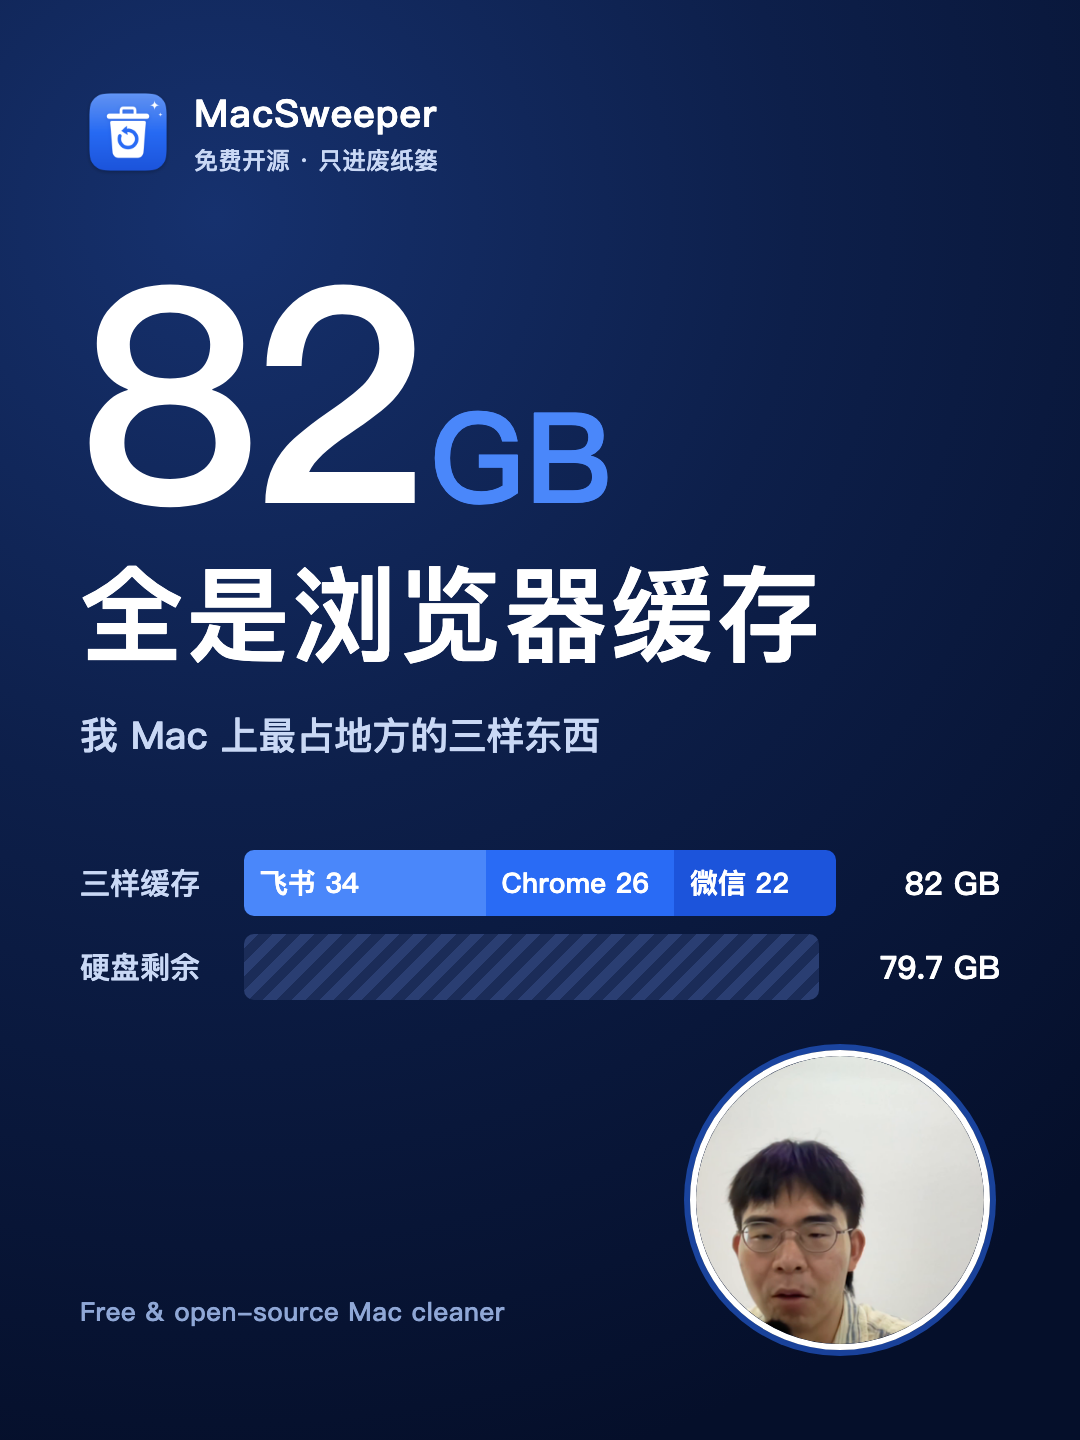
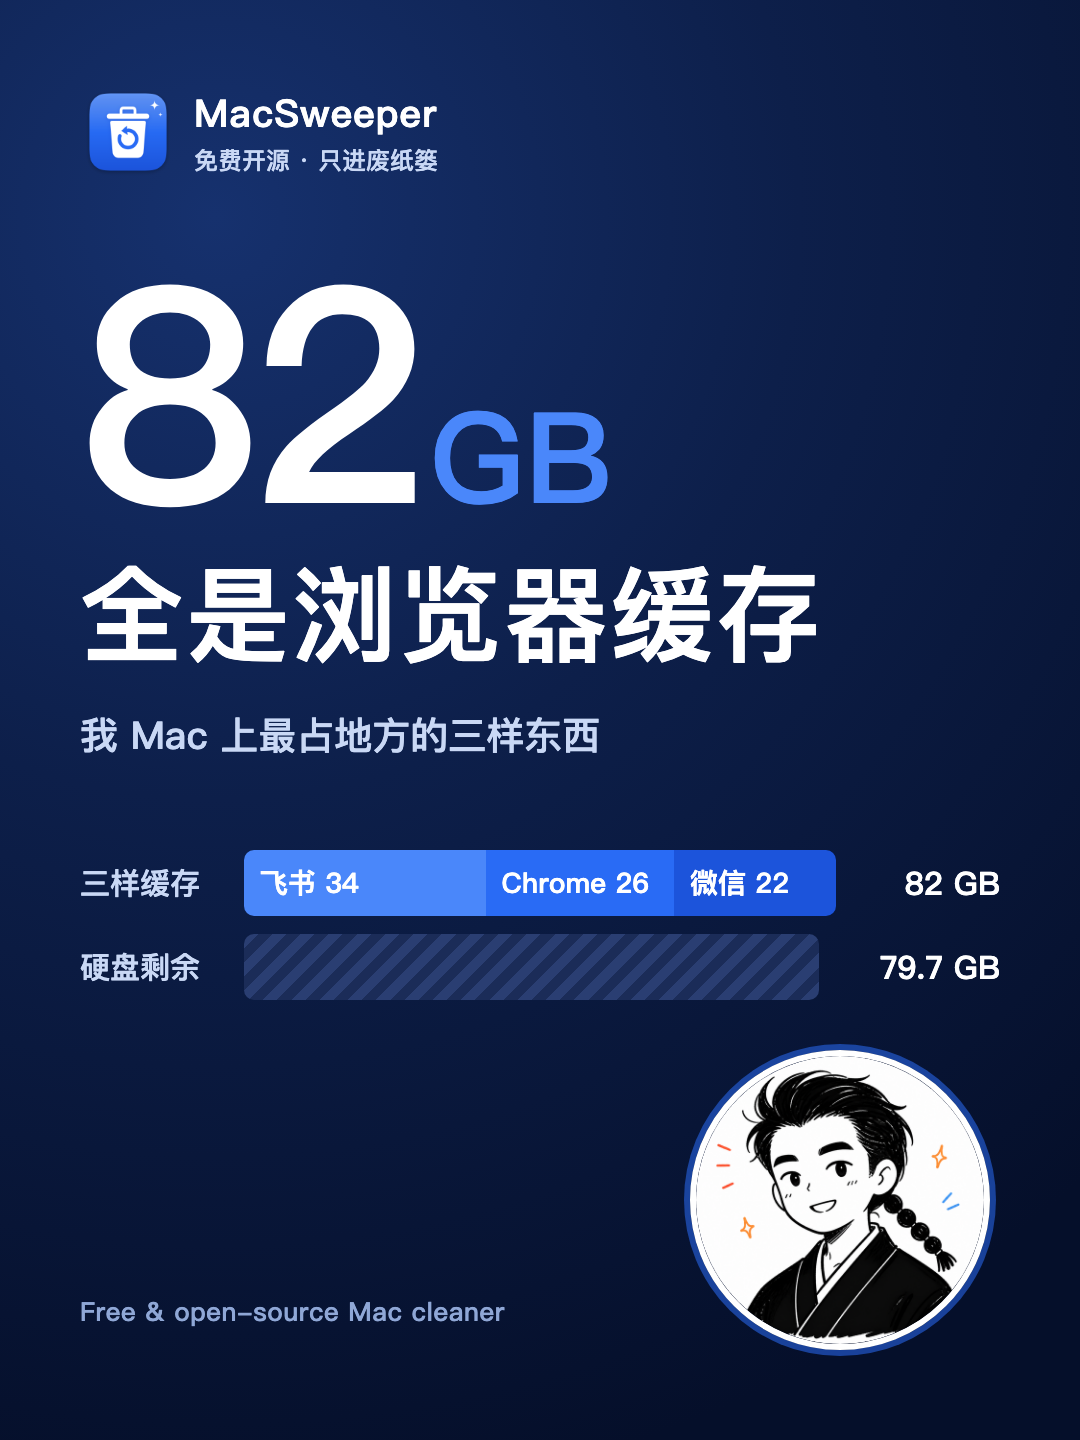
promo：封面头像换成 IP 头像

Changed region(s): [[0.6417, 0.7188, 0.9167, 0.9375]]

diff --git a/promo/视觉规范.md b/promo/视觉规范.md
@@ -9,8 +9,8 @@
 
 ## 视频封装
 
-- 横版封面 1280×720：深墨蓝底 + 一个大数字（如"82GB"）+ ≤ 8 字标题 + App 图标；可以放作者头像。
-- 竖版封面 1080×1440：同一套，数字更大。
+- 封面三个尺寸（一稿多发的三个封面位）：竖版 9:16 1080×1920、3:4 1080×1440、横版 16:9 1920×1080。深墨蓝底 + 一个大数字（如"82GB"）+ ≤ 8 字标题 + App 图标。
+- 封面上的作者头像用 **IP 头像**（黑白手绘、带辫子，原图 `~/Desktop/头像.png`，副本 `promo/封面/src/ip-avatar.png`），圆形白底 + 蓝色描边，不用视频截帧。
 - 字幕：中文在上、英文在下，白字细描边；英文统一用 `术语表.md` 里的词（Simple Mode、Safe Clean、Trash、Undo……）。
 - 画中画头像放右下角，别挡住 App 的主按钮（简单模式的按钮在窗口下方居中）。
 - AI 生成的片头、动效发布时按平台规则标注。
